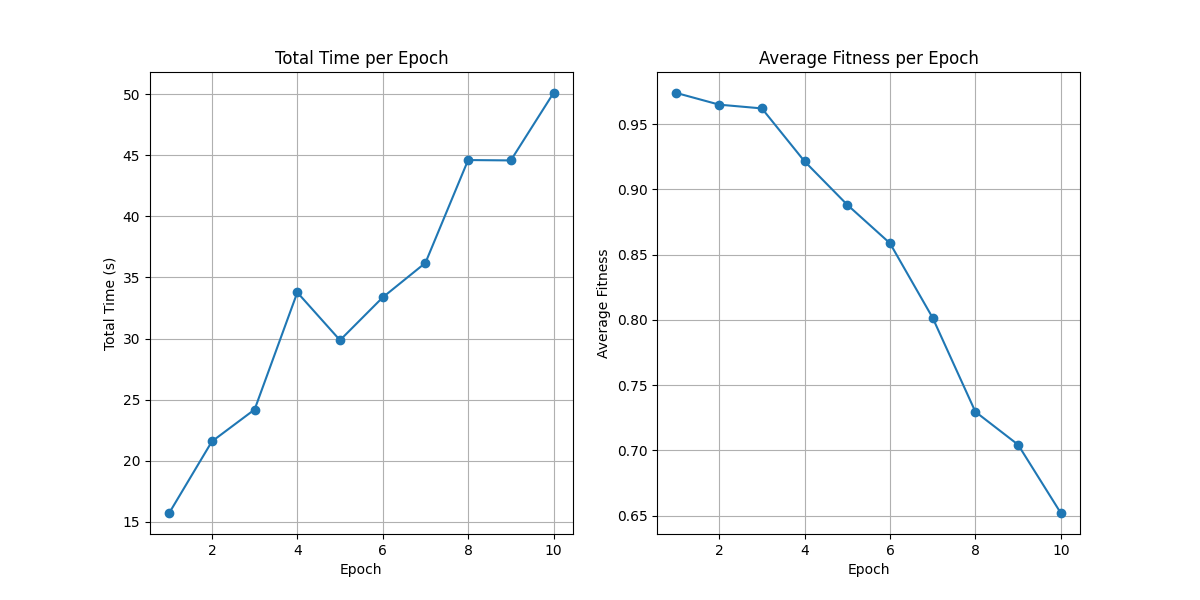
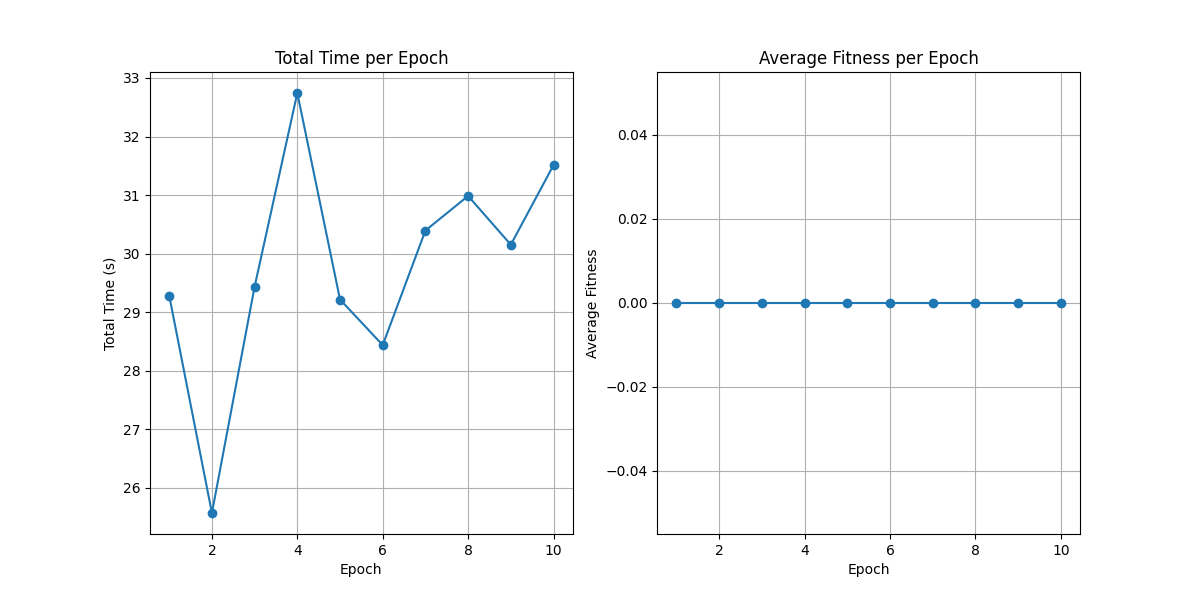
added fitness to the final result

diff --git a/main.py b/main.py
@@ -540,7 +540,7 @@ def ag(submission_id, problem_id, program_path, population_size, no_epochs):
                 offsprings[i].fitness = {'fitness':0, 'no_passed_tests':0}
 
         new_population = sample(population, population_size*0.1)
-        new_population.extend(new_population[:int(0.9*population_size)])
+        new_population.extend(offsprings[:int(0.9*population_size)])
 
         for p in new_population:
             if p.fitness['no_passed_tests'] == max_fitness:
@@ -590,29 +590,21 @@ def ag(submission_id, problem_id, program_path, population_size, no_epochs):
     # Save the second plot
     plt.savefig(os.path.join(save_dir, 'average_fitness_per_epoch_task'+str(problem_id)+'.png'))
 
-    # Show the plots (optional)
     if solution:
-        return minimize(solution.ast)
+        return {'sol': minimize(solution.ast), 'fitness': max_fitness}
     else:
-        return best_solution
+        return {'sol': best_solution, 'fitness': best_fitness}
 
 
 if __name__ == "__main__":
-    # submision_id = 1
-    # final_patch = ag(submision_id, 2, "problems/1.c", 10)
-    # generator = c_generator.CGenerator()
-    # final_C_patch = generator.visit(final_patch)
-    # with open("./final_patch/"+str(submision_id)+".c", 'w') as f:
-    #     f.write(final_C_patch)
-    for i in range(0,10):
+    for i in range(2, 3):
         submision_id = i
-        final_patch = ag(submision_id, i+1, "problems/"+str(i)+".c", 30, 10)
+        res = ag(submision_id, i + 1, "problems/" + str(i) + ".c", 30, 10)
+        final_patch = res['sol']
+        fitness = res['fitness']
         generator = c_generator.CGenerator()
         final_C_patch = generator.visit(final_patch)
         with open("./final_patch/" + str(submision_id) + ".c", 'w') as f:
+            f.write(str(fitness) + "\n")
             f.write(final_C_patch)
         print("doneeeeeeeeeeeeeeeee")
-    # ag(0, 1, "problems/0.c", 10)
-
-# print("After:")
-# ast.show(offset=2)

diff --git a/final_patch/5.c b/final_patch/5.c
@@ -9,7 +9,7 @@ int main()
     scanf("%d", &v[i]);
 
   int ok_par = 0;
-  for (int i = ordonat; i >= 0; i++)
+  for (int i = 1; i <= n; i++)
   {
     if ((v[i] % 2) == 0)
     {
@@ -20,29 +20,9 @@ int main()
       if ((ok_par == 1) && (v[i] > prev))
       {
         ordonat = 0;
-        ok_par = prev;
+        ok_par = 0;
       }
-      i = prev;
-      ok_par = ordonat;
-      for (int i = 1; i <= n; i++)
-      {
-        if ((v[i] % 2) == 0)
-        {
-          if (ok_par == 0)
-          {
-            ok_par = 1;
-          }
-          if ((ok_par == 1) && (v[i] > prev))
-          {
-            ordonat = 0;
-            ok_par = prev;
-          }
-          prev = prev;
-        }
-      }
-
-      prev = 1;
-      ok_par = 0;
+      prev = prev;
     }
   }
 
@@ -50,7 +30,6 @@ int main()
     printf("DA");
   else
     printf("NU");
-  return 0;
   return 0;
 }
 

diff --git a/final_patch/7.c b/final_patch/7.c
@@ -7,7 +7,7 @@ int main()
     scanf("%d", &v[i]);
 
   int minim = v[1];
-  for (int i = n; i >= v[n + 1]; i++)
+  for (int i = 1; i <= n; i++)
     if (v[i] < minim)
     minim = v[i];
 
@@ -17,34 +17,11 @@ int main()
     if (v[i] == minim)
     {
       v[n] = v[n + 1];
-      n--;
-      v[n] = v[n + 1];
-      n--;
-      v[k] = n;
-      for (int i = 1; i <= n; i++)
-        if (v[i] < minim)
-        minim = v[i];
-
-      return 0;
-      v[k] = v[k + 1];
-      int k = i
-      i++;
-      i = n;
-      int k = i
-      return 0;
       for (int k = i; k <= n; k++)
       {
         v[k] = v[k + 1];
-        i = i;
       }
 
-      return 0;
-      n--;
-      return 0;
-      v[k] = 1;
-      v[n] = v[n];
-      n--;
-      int k = i
       n--;
     }
     n--;

diff --git a/final_patch/8.c b/final_patch/8.c
@@ -14,28 +14,13 @@ int main()
     j = 1;
     while ((j <= n) && (si <= s))
     {
-      si = si - v[j - 1];
+      si = si + v[j];
       j++;
       if (v[i] > si)
         break;
     }
 
     j++;
-    si = si - v[j - 1];
-    si = si + v[j];
-    si = si - v[j - 1];
-    si = si - v[j - 1];
-    return 0;
-    return 0;
-    j++;
-    si = si - v[j - 1];
-    j++;
-    si = si - v[j - 1];
-    return 0;
-    si = si + v[j];
-    si = si;
-    si = si + v[j];
-    si = si + v[j];
     si = si - v[j - 1];
     if (si == s)
     {
@@ -45,6 +30,6 @@ int main()
 
   printf("0 0");
   return 0;
-  j++;
+  return 0;
 }
 

diff --git a/final_patch/3.c b/final_patch/3.c
@@ -13,7 +13,7 @@ int main()
   {
     if ((i % 2) == 0)
     {
-      s = i;
+      poz1 = i;
       break;
     }
   }
@@ -26,10 +26,9 @@ int main()
     }
   }
 
-  for (int i = s; i < 1; i--)
+  for (int i = poz1; i <= poz2; i++)
   {
-    s += v[i];
-    break;
+    s += s;
   }
 
   if (poz1 == (-1))

diff --git a/final_patch/4.c b/final_patch/4.c
@@ -9,9 +9,8 @@ int main()
 
   int dr;
   int st;
-  dr = 1;
-  dr++;
-  dr = n;
+  dr = dr;
+  st = n;
   while (dr < st)
   {
     int a = v[dr];
@@ -29,8 +28,7 @@ int main()
     else
     {
       dr++;
-      dr++;
-      dr++;
+      st--;
     }
     dr++;
     st--;

diff --git a/final_patch/6.c b/final_patch/6.c
@@ -19,13 +19,11 @@ int main()
     {
       nr_cif++;
       x = x / 10;
-      x = 1;
-      x = x / 10;
     }
 
     if ((nr_cif % 2) == 1)
     {
-      x = n;
+      ok = ok;
     }
   }
 

diff --git a/final_patch/1.c b/final_patch/1.c
@@ -59,7 +59,6 @@ int main()
         {
           p++;
           v[p] = a[k][i];
-          p++;
         }
 
       }
@@ -72,5 +71,6 @@ int main()
   }
 
   return 0;
+  p++;
 }
 

diff --git a/final_patch/2.c b/final_patch/2.c
@@ -29,10 +29,6 @@ int main()
       {
         cont += a[i] * b[j];
         break;
-        break;
-        break;
-        break;
-        j++;
       }
       j++;
       j++;
